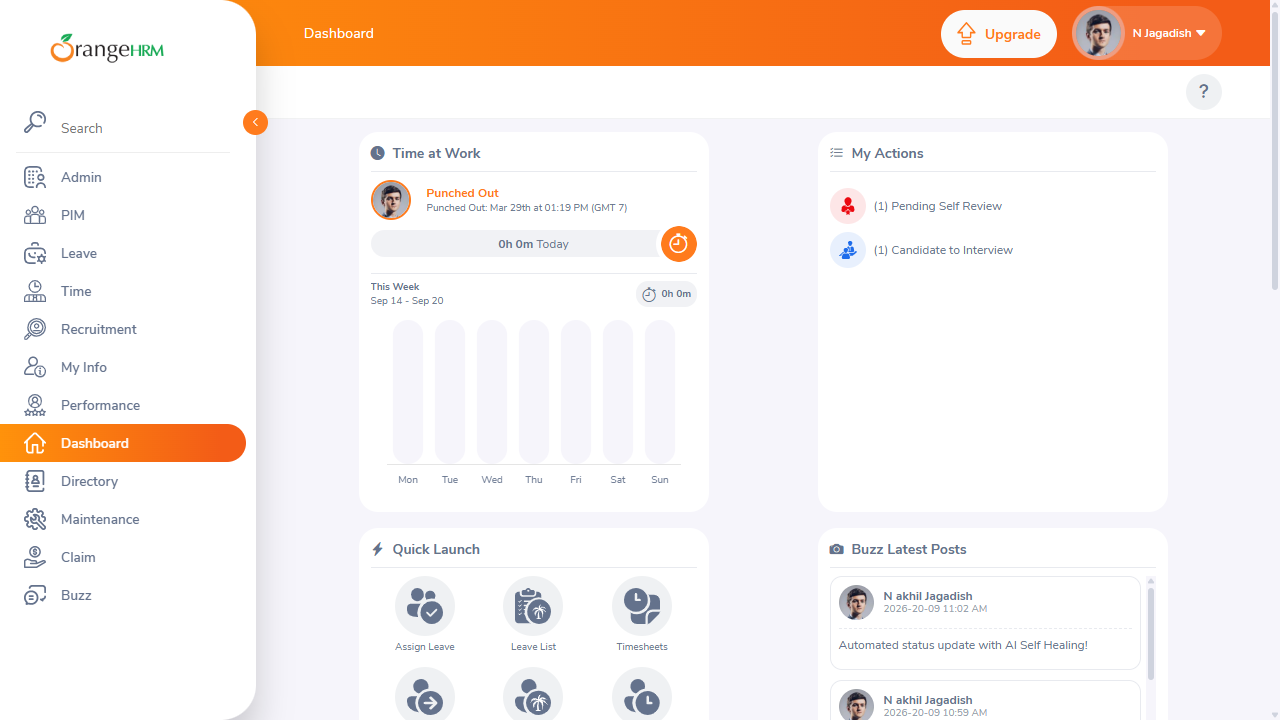
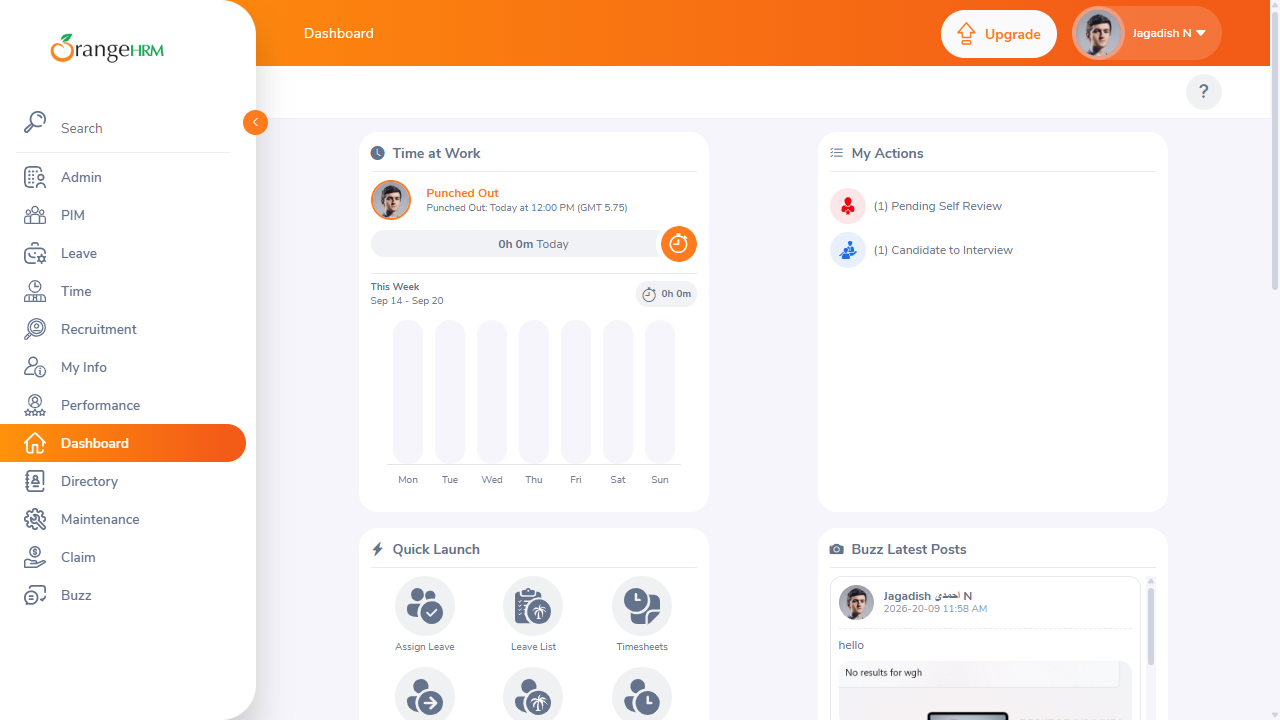
Sharding implemented

diff --git a/playwright.config.ts b/playwright.config.ts
@@ -26,7 +26,7 @@ const baseConfig: any = {
   /* Retry on CI only */
   retries: isCI ? 2 : 0,
   /* Reporter to use. See https://playwright.dev/docs/test-reporters */
-  reporter: [['allure-playwright'],['html']],
+  reporter: [['blob', {path: 'blob-report'}],['dot'],['allure-playwright'],['html']],
   /* Shared settings for all the projects below. See https://playwright.dev/docs/api/class-testoptions. */
   use: {
     /* Base URL to use in actions like `await page.goto('')`. */
